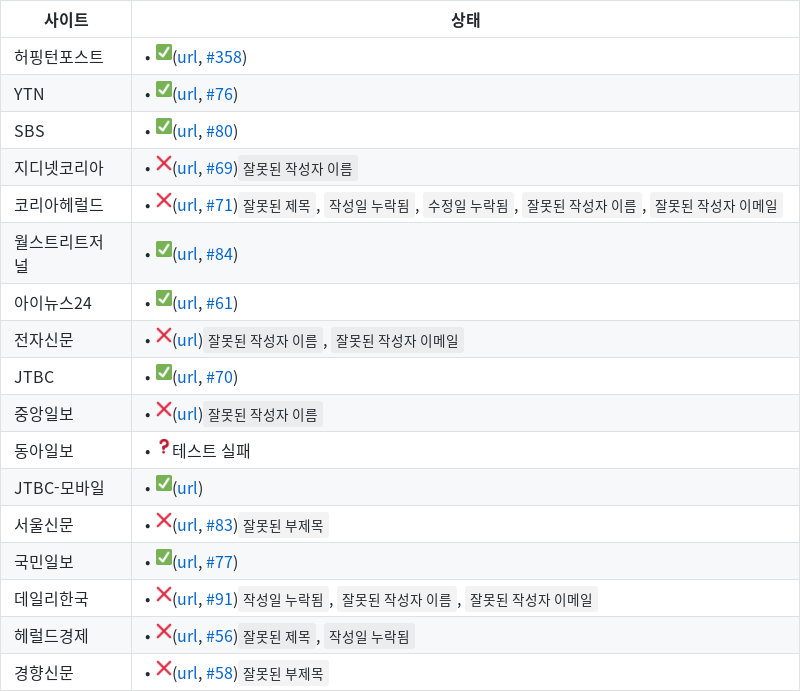
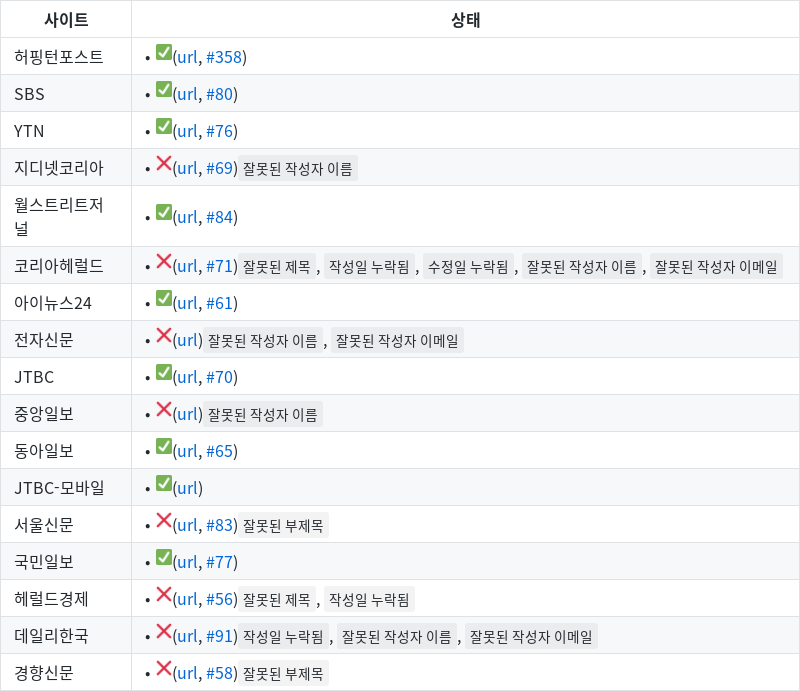
Thu May 21 00:15:29 UTC 2020

diff --git a/health-check.md b/health-check.md
@@ -1,19 +1,19 @@
 | 사이트 | 상태 |
 |------|-------|
 | 허핑턴포스트 | • ✅([url](https://www.huffingtonpost.kr/entry/story_kr_5d36a558e4b004b6adb5029c?9e4), [#358](https://github.com/disjukr/just-news/issues/#358)) |
-| YTN | • ✅([url](https://www.ytn.co.kr/_ln/0103_201411190800481989), [#76](https://github.com/disjukr/just-news/issues/#76)) |
 | SBS | • ✅([url](https://news.sbs.co.kr/news/endPage.do?news_id=N1002697236), [#80](https://github.com/disjukr/just-news/issues/#80)) |
+| YTN | • ✅([url](https://www.ytn.co.kr/_ln/0103_201411190800481989), [#76](https://github.com/disjukr/just-news/issues/#76)) |
 | 지디넷코리아 | • ❌([url](http://www.zdnet.co.kr/view/?no=20141104074223), [#69](https://github.com/disjukr/just-news/issues/#69))`잘못된 작성자 이름` |
-| 코리아헤럴드 | • ❌([url](http://khnews.kheraldm.com/view.php?ud=20141111001137&md=20141111180830_BK&kr=1), [#71](https://github.com/disjukr/just-news/issues/#71))`잘못된 제목`, `작성일 누락됨`, `수정일 누락됨`, `잘못된 작성자 이름`, `잘못된 작성자 이메일` |
 | 월스트리트저널 | • ✅([url](https://realtime.wsj.com/korea/2014/10/13/%EB%B0%95%EC%9B%90%EC%88%9C-%EC%84%9C%EC%9A%B8%EC%8B%9C%EC%9E%A5-%EB%AF%B8%EA%B5%AD-%EC%96%B8%EB%A1%A0%EC%97%90-%EB%8F%99%EC%84%B1%EA%B2%B0%ED%98%BC-%EC%A7%80%EC%A7%80-%EB%B0%9C%EC%96%B8/), [#84](https://github.com/disjukr/just-news/issues/#84)) |
+| 코리아헤럴드 | • ❌([url](http://khnews.kheraldm.com/view.php?ud=20141111001137&md=20141111180830_BK&kr=1), [#71](https://github.com/disjukr/just-news/issues/#71))`잘못된 제목`, `작성일 누락됨`, `수정일 누락됨`, `잘못된 작성자 이름`, `잘못된 작성자 이메일` |
 | 아이뉴스24 | • ✅([url](http://www.inews24.com/view/860573), [#61](https://github.com/disjukr/just-news/issues/#61)) |
 | 전자신문 | • ❌([url](http://www.etnews.com/20191031000370?mc=ns_003_00006))`잘못된 작성자 이름`, `잘못된 작성자 이메일` |
 | JTBC | • ✅([url](http://news.jtbc.joins.com/article/article.aspx?news_id=NB10639468), [#70](https://github.com/disjukr/just-news/issues/#70)) |
 | 중앙일보 | • ❌([url](https://news.joins.com/article/23621286))`잘못된 작성자 이름` |
-| 동아일보 | • ❓테스트 실패 |
+| 동아일보 | • ✅([url](http://news.donga.com/3/03/20141107/67723014/1), [#65](https://github.com/disjukr/just-news/issues/#65)) |
 | JTBC-모바일 | • ✅([url](http://mnews.jtbc.joins.com/News/Article.aspx?news_id=NB11866214)) |
 | 서울신문 | • ❌([url](http://seoul.co.kr/news/newsView.php?id=20141204500025), [#83](https://github.com/disjukr/just-news/issues/#83))`잘못된 부제목` |
 | 국민일보 | • ✅([url](http://news.kmib.co.kr/article/view.asp?arcid=0008864720&code=61121111), [#77](https://github.com/disjukr/just-news/issues/#77)) |
-| 데일리한국 | • ❌([url](http://daily.hankooki.com/lpage/politics/201412/dh20141219103740137430.htm), [#91](https://github.com/disjukr/just-news/issues/#91))`작성일 누락됨`, `잘못된 작성자 이름`, `잘못된 작성자 이메일` |
 | 헤럴드경제 | • ❌([url](http://news.heraldcorp.com/view.php?ud=20141023000202&md=20141023091209_BK), [#56](https://github.com/disjukr/just-news/issues/#56))`잘못된 제목`, `작성일 누락됨` |
+| 데일리한국 | • ❌([url](http://daily.hankooki.com/lpage/politics/201412/dh20141219103740137430.htm), [#91](https://github.com/disjukr/just-news/issues/#91))`작성일 누락됨`, `잘못된 작성자 이름`, `잘못된 작성자 이메일` |
 | 경향신문 | • ❌([url](http://biz.khan.co.kr/khan_art_view.html?artid=201410311921301&code=920100&med=khan), [#58](https://github.com/disjukr/just-news/issues/#58))`잘못된 부제목` |
